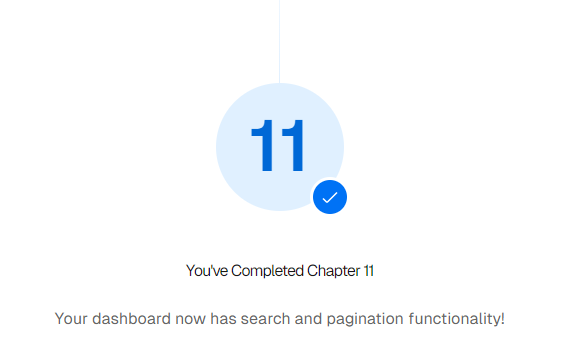
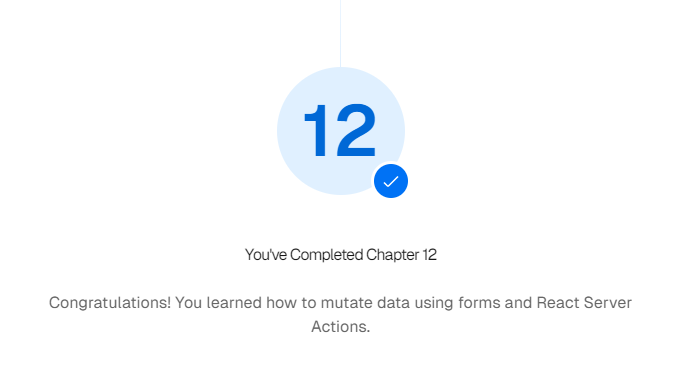
chapter 12

diff --git a/README.md b/README.md
@@ -1,2 +1,2 @@
-![](Screenshot_2.png)
+![](Screenshot_3.png)
 ![](Screenshot_1.png)
